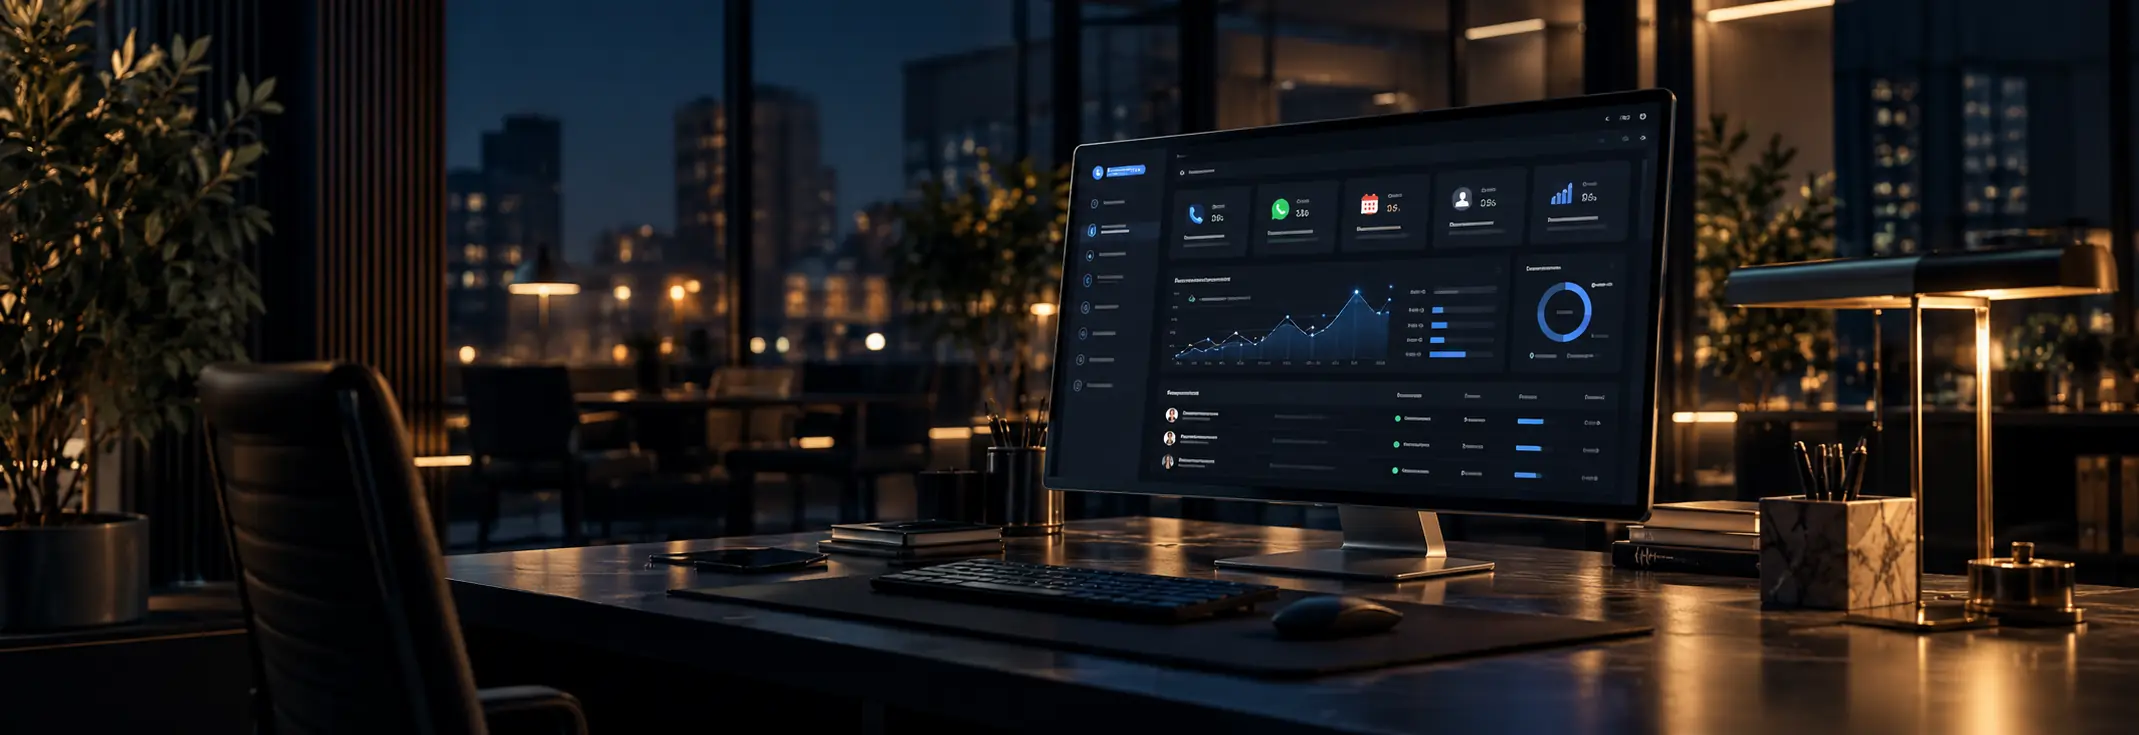
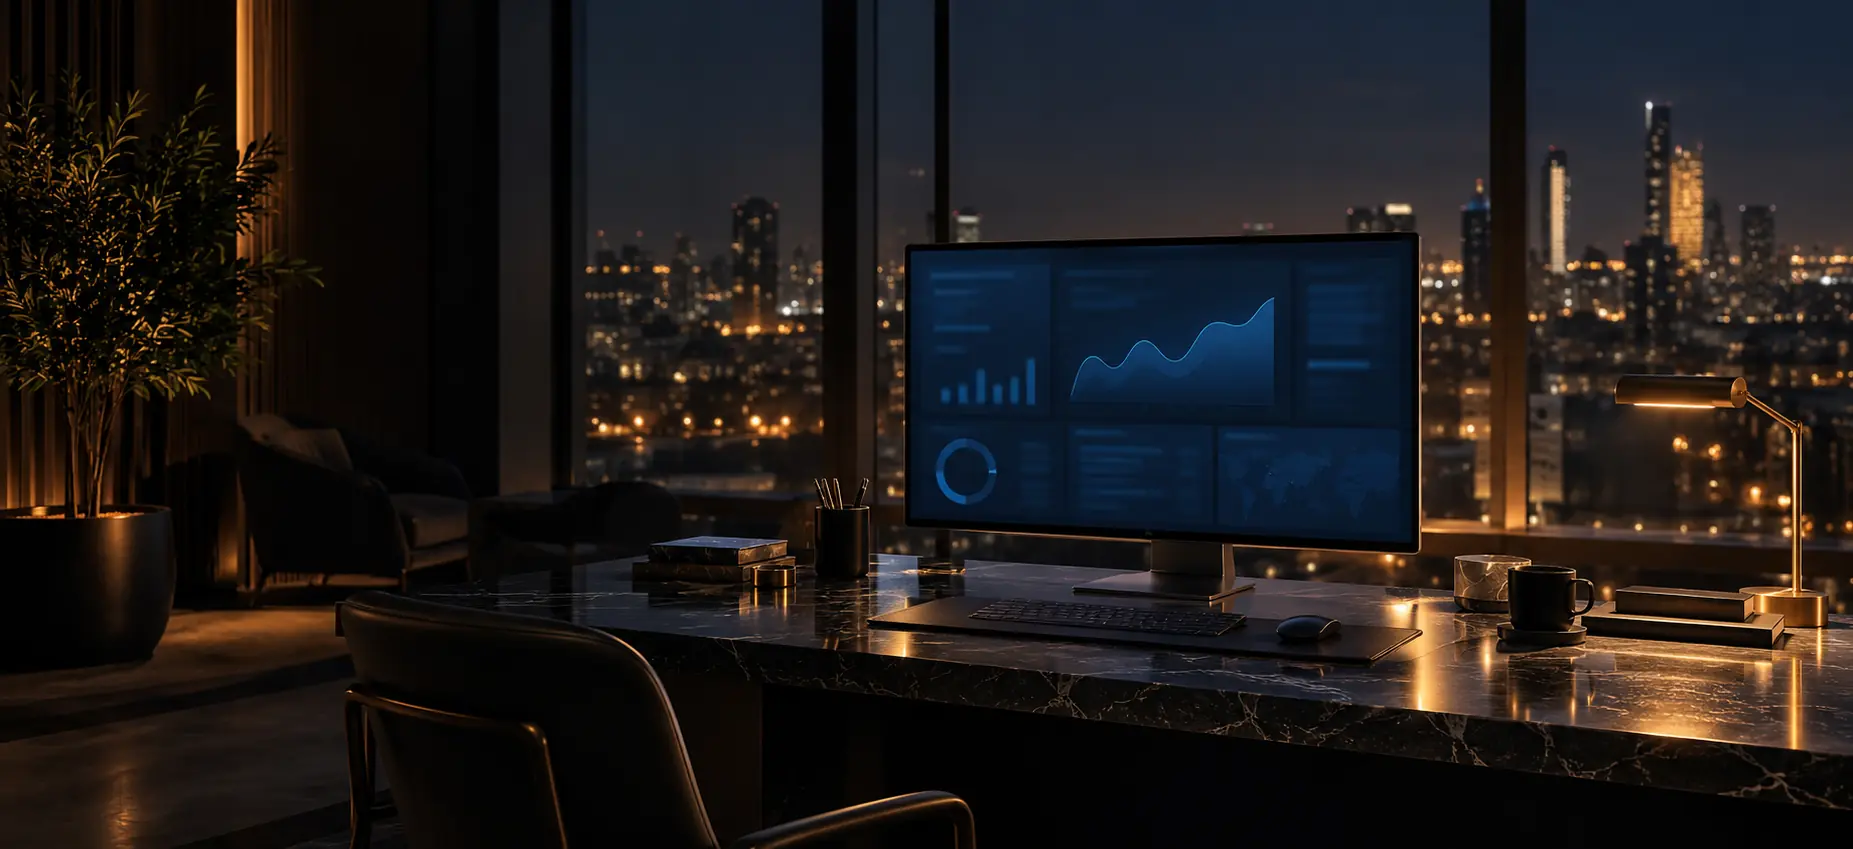
piezas: foto nueva 2,18:1 en inmobiliarias (seccion mas alta, como coaching) y la misma seccion en concesionarios con foto mas clara

diff --git a/src/concesionarios/index.html b/src/concesionarios/index.html
@@ -1214,6 +1214,105 @@
     })();
   </script>
 
+  <!-- =================== 06B - PIEZAS (2026-10-07) ===================
+       Anais: "en concesionarios no hay esa seccion, pon el mismo copy que
+       inmobiliarias". Es el mismo bloque (prefijo pzs-): texto a la
+       izquierda, boton blanco e iconos, y las seis piezas alrededor del
+       ordenador de la foto (assets/conce-piezas.webp, 1852x849), mas clara
+       que la de inmobiliarias a peticion suya porque la pagina es muy
+       oscura. Monitor en unidades de 2000: x 952-1522, y 232-588. -->
+    <style>
+      section#piezas.pzs { padding: 0 !important; background: #050A12; color: #fff; }
+      .pzs-esc { position: relative; container-type: inline-size; aspect-ratio: 1852 / 849; background: url(/assets/conce-piezas.webp) center / 100% 100% no-repeat; }
+      .pzs-in { --u: calc(100cqw / 2000); position: absolute; inset: 0; }
+      .pzs-velo { position: absolute; inset: 0; background: linear-gradient(90deg, rgba(3,8,16,.86) 0%, rgba(3,8,16,.66) 22%, rgba(3,8,16,.18) 31%, rgba(3,8,16,0) 40%); }
+      .pzs-txt { position: absolute; left: calc(110 * var(--u)); top: 0; bottom: 0; width: calc(470 * var(--u)); display: flex; flex-direction: column; justify-content: center; }
+      .pzs-txt .c-kick { margin-bottom: calc(14 * var(--u)); }
+      .pzs-txt h2 { font-size: calc(58 * var(--u)); line-height: 1.04; letter-spacing: -.035em; font-weight: 800; color: #fff; }
+      .pzs-txt .lede { margin-top: calc(18 * var(--u)); font-size: calc(19 * var(--u)); line-height: 1.5; color: rgba(255,255,255,.78); }
+      .pzs-btn { align-self: flex-start; display: inline-flex; align-items: center; gap: 12px; margin-top: calc(26 * var(--u)); height: calc(58 * var(--u)); padding: 0 calc(30 * var(--u)); border: 0; border-radius: 999px; background: #fff; color: #0B1220; font: inherit; font-size: calc(18 * var(--u)); font-weight: 600; cursor: pointer; transition: background .2s; }
+      .pzs-btn:hover { background: #EEF1F5; }
+      .pzs-btn svg { width: calc(16 * var(--u)); height: calc(16 * var(--u)); }
+      .pzs-apps { display: flex; gap: calc(10 * var(--u)); margin-top: calc(24 * var(--u)); }
+      .pzs-apps i { width: calc(52 * var(--u)); height: calc(52 * var(--u)); border-radius: calc(13 * var(--u)); background: rgba(18,22,30,.88); border: 1px solid rgba(255,255,255,.12); display: flex; align-items: center; justify-content: center; }
+      .pzs-apps svg { width: calc(27 * var(--u)); height: calc(27 * var(--u)); }
+      .pzs-nota { margin-top: calc(12 * var(--u)); font-size: calc(15 * var(--u)); color: rgba(255,255,255,.72); }
+      .pzs-fl { position: absolute; inset: 0; width: 100%; height: 100%; }
+      .pzs-fl path { stroke-dasharray: 60; stroke-dashoffset: 60; }
+      .anim-on .visto .pzs-fl path { animation: pzs-cable 1.2s ease 1.6s forwards, pzs-brillo 2.6s ease-in-out 2.8s infinite; }
+      @keyframes pzs-cable { to { stroke-dashoffset: 0; } }
+      @keyframes pzs-brillo { 0%, 100% { opacity: .55; } 50% { opacity: 1; } }
+      .pzs-c { position: absolute; display: grid; grid-template-columns: auto 1fr; gap: calc(14 * var(--u)); align-items: center; padding: calc(16 * var(--u)); background: rgba(8,14,26,.86); border: 1px solid rgba(70,140,255,.5); border-radius: calc(16 * var(--u)); box-shadow: 0 0 calc(24 * var(--u)) rgba(30,110,255,.18); backdrop-filter: blur(8px); -webkit-backdrop-filter: blur(8px); }
+      .pzs-c i { width: calc(46 * var(--u)); height: calc(46 * var(--u)); border-radius: calc(12 * var(--u)); background: #1167FF; color: #fff; display: flex; align-items: center; justify-content: center; }
+      .pzs-c i.wa { background: #25D366; }
+      .pzs-c i.cl { background: linear-gradient(180deg, #2BA6FF, #1167FF); }
+      .pzs-c i svg { width: calc(26 * var(--u)); height: calc(26 * var(--u)); }
+      .pzs-c b { display: block; font-size: calc(21 * var(--u)); font-weight: 700; line-height: 1.2; letter-spacing: -.01em; color: #fff; }
+      .pzs-c span { display: block; margin-top: calc(4 * var(--u)); font-size: calc(16.5 * var(--u)); line-height: 1.35; color: #C9D2DE; }
+      /* Monitor en la foto (unidades de 2000 de ancho): x 952-1522, y 232-588. */
+      .pzs-c.c1, .pzs-c.c2, .pzs-c.c3 { left: calc(590 * var(--u)); width: calc(330 * var(--u)); }
+      .pzs-c.c4, .pzs-c.c5, .pzs-c.c6 { left: calc(1565 * var(--u)); width: calc(380 * var(--u)); }
+      .pzs-c.c1, .pzs-c.c4 { top: calc(215 * var(--u)); }
+      .pzs-c.c2, .pzs-c.c5 { top: calc(385 * var(--u)); }
+      .pzs-c.c3, .pzs-c.c6 { top: calc(555 * var(--u)); }
+      @media (max-width: 1180px) {
+        .pzs-esc { aspect-ratio: auto; background-size: cover; background-position: 62% center; padding: 56px 22px; }
+        .pzs-in { position: static; --u: 1px; }
+        .pzs-velo { background: rgba(3,8,16,.72); }
+        .pzs-txt { position: relative; left: auto; width: auto; max-width: 560px; }
+        .pzs-txt h2 { font-size: clamp(1.6rem, 6vw, 2.4rem); }
+        .pzs-txt .lede { font-size: .95rem; }
+        .pzs-btn { height: 50px; font-size: 15.5px; padding: 0 24px; }
+        .pzs-apps i { width: 44px; height: 44px; } .pzs-apps svg { width: 23px; height: 23px; }
+        .pzs-nota { font-size: 13.5px; }
+        .pzs-fl { display: none; }
+        .pzs-cs { position: relative; display: grid; grid-template-columns: 1fr 1fr; gap: 10px; margin-top: 28px; }
+        .pzs-c { position: relative; left: auto !important; top: auto !important; width: auto !important; grid-template-columns: 1fr; gap: 8px; padding: 12px; border-radius: 12px; }
+        .pzs-c i { width: 34px; height: 34px; border-radius: 9px; } .pzs-c i svg { width: 19px; height: 19px; }
+        .pzs-c b { font-size: 14px; } .pzs-c span { font-size: 12.5px; }
+      }
+      @media (prefers-reduced-motion: reduce) { .pzs-fl path { stroke-dashoffset: 0; } .anim-on .visto .pzs-fl path { animation: none; } }
+    </style>
+    <section class="pzs" id="piezas">
+      <div class="pzs-esc">
+        <div class="pzs-velo" aria-hidden="true"></div>
+        <div class="pzs-in" data-vi>
+          <svg class="pzs-fl" viewBox="0 0 2000 917" preserveAspectRatio="none" fill="none" aria-hidden="true">
+            <g stroke="#3D9BFF" stroke-width="2.4" stroke-linecap="round" style="filter: drop-shadow(0 0 4px rgba(61,155,255,.9))">
+              <path vector-effect="non-scaling-stroke" d="M920 270C938 270 938 295 955 295"/>
+              <path vector-effect="non-scaling-stroke" d="M920 440H955"/>
+              <path vector-effect="non-scaling-stroke" d="M920 610C938 610 938 575 955 575"/>
+              <path vector-effect="non-scaling-stroke" d="M1565 270C1545 270 1545 295 1521 295"/>
+              <path vector-effect="non-scaling-stroke" d="M1565 440H1521"/>
+              <path vector-effect="non-scaling-stroke" d="M1565 610C1545 610 1545 575 1521 575"/>
+            </g>
+          </svg>
+          <div class="pzs-txt">
+            <p class="c-kick">El sistema</p>
+            <h2>Piezas, no un <br>paquete cerrado.</h2>
+            <p class="lede">Nos adaptamos a las herramientas que ya utilizas. Y si hace falta una pieza que no existe en tu software, la construimos.</p>
+            <button class="pzs-btn" type="button" data-cal><svg viewBox="0 0 24 24" fill="currentColor" aria-hidden="true"><path d="M8 5.5l11 6.5-11 6.5z"/></svg>Ver c&oacute;mo se integra</button>
+            <div class="pzs-apps" aria-label="Algunas herramientas con las que se integra">
+              <i title="WhatsApp"><svg viewBox="0 0 24 24" fill="none" stroke="#25D366" stroke-width="2.2" stroke-linecap="round"><path d="M20 11.5a7.5 7.5 0 01-10.9 6.7L4 19.5l1.4-4.8A7.5 7.5 0 1120 11.5z"/></svg></i>
+              <i title="Instagram"><svg viewBox="0 0 24 24" fill="none" stroke="url(#pzig2)" stroke-width="2.2"><defs><linearGradient id="pzig2" x1="0" y1="1" x2="1" y2="0"><stop offset="0" stop-color="#F9A03C"/><stop offset=".5" stop-color="#E1306C"/><stop offset="1" stop-color="#8134AF"/></linearGradient></defs><rect x="3.5" y="3.5" width="17" height="17" rx="5"/><circle cx="12" cy="12" r="4"/><circle cx="17" cy="7" r="1.2" fill="#E1306C" stroke="none"/></svg></i>
+              <i title="Gmail"><svg viewBox="0 0 24 24" fill="none" stroke-width="2.4" stroke-linejoin="round"><path d="M3.5 18V7l8.5 6.5L20.5 7v11" stroke="#EA4335"/><path d="M3.5 18h3V10M20.5 18h-3V10" stroke="#4285F4"/></svg></i>
+              <i title="Google Calendar"><svg viewBox="0 0 24 24"><rect x="3.5" y="3.5" width="17" height="17" rx="2.5" fill="#fff"/><path d="M3.5 7.5h17" stroke="#4285F4" stroke-width="3"/><text x="12" y="17.6" text-anchor="middle" font-size="8.5" font-weight="700" fill="#1A73E8" font-family="Arial,sans-serif">31</text></svg></i>
+              <i title="HubSpot"><svg viewBox="0 0 24 24" fill="none" stroke="#FB5328" stroke-width="2.1" stroke-linecap="round"><path d="M15 6.5v4.2M15 13.3v4.2"/><circle cx="15" cy="12" r="3.6"/><circle cx="15" cy="5" r="1.6"/><circle cx="15" cy="19" r="1.6"/><path d="M11.4 12H7"/><circle cx="6" cy="12" r="1.6"/></svg></i>
+            </div>
+            <p class="pzs-nota">Se integra con tus herramientas actuales.</p>
+          </div>
+          <div class="pzs-cs">
+          <div class="pzs-c c1 vi" style="--d:.4s"><i><svg viewBox="0 0 24 24" fill="currentColor"><path d="M7.4 3.2c.5-.2 1.1 0 1.4.5l1.4 2.4c.3.5.2 1.1-.2 1.5l-1 .9c-.2.2-.3.5-.1.8.9 1.7 2.3 3.1 4 4 .3.2.6.1.8-.1l.9-1c.4-.4 1-.5 1.5-.2l2.4 1.4c.5.3.7.9.5 1.4l-.6 1.6c-.3.8-1.1 1.3-2 1.2C9.9 18.9 5.1 14.1 4.4 7.6c-.1-.9.4-1.7 1.2-2z"/></svg></i><div><b>Llamadas</b><span>Un agente de voz atiende al instante.</span></div></div>
+          <div class="pzs-c c2 vi" style="--d:.8s"><i class="wa"><svg viewBox="0 0 24 24" fill="none" stroke="currentColor" stroke-width="2" stroke-linecap="round"><path d="M20 11.5a7.5 7.5 0 01-10.9 6.7L4 19.5l1.4-4.8A7.5 7.5 0 1120 11.5z"/></svg></i><div><b>WhatsApp</b><span>Sigue la conversaci&oacute;n y env&iacute;a la ficha del coche.</span></div></div>
+          <div class="pzs-c c3 vi" style="--d:1.2s"><i><svg viewBox="0 0 24 24" fill="none" stroke="currentColor" stroke-width="1.9" stroke-linecap="round"><rect x="3.5" y="5" width="17" height="15" rx="2.5"/><path d="M3.5 9.5h17M8 3v4M16 3v4"/></svg></i><div><b>Agenda</b><span>Pruebas, tasaciones y citas de taller.</span></div></div>
+          <div class="pzs-c c4 vi" style="--d:.6s"><i class="cl"><svg viewBox="0 0 24 24" fill="none" stroke="currentColor" stroke-width="1.9" stroke-linejoin="round"><path d="M12 3.5l8.5 4.5-8.5 4.5L3.5 8z"/><path d="M3.5 12l8.5 4.5 8.5-4.5M3.5 16l8.5 4.5 8.5-4.5"/></svg></i><div><b>CRM &middot; tu software</b><span>Contacto y cita, registrados solos.</span></div></div>
+          <div class="pzs-c c5 vi" style="--d:1.0s"><i><svg viewBox="0 0 24 24" fill="currentColor"><path d="M6 10a6 6 0 1112 0c0 4 1.6 5.6 1.6 5.6H4.4S6 14 6 10z"/><path d="M10 18.5a2.2 2.2 0 004 0"/></svg></i><div><b>Seguimiento</b><span>Recordatorios de cita y de revisi&oacute;n.</span></div></div>
+          <div class="pzs-c c6 vi" style="--d:1.4s"><i><svg viewBox="0 0 24 24" fill="currentColor"><circle cx="9" cy="8" r="3.4"/><path d="M2.5 19.5c0-3.6 2.9-6 6.5-6s6.5 2.4 6.5 6z"/><circle cx="17" cy="9" r="2.6"/><path d="M16.5 13.6c3 .2 5 2.3 5 5.9h-4.4c0-2.3-.2-4.4-.6-5.9z"/></svg></i><div><b>Tu equipo</b><span>Ventas y taller reciben el aviso con todo.</span></div></div>
+          </div>
+        </div>
+      </div>
+    </section>
+
   <!-- =================== 07 - LO QUE HACE Y LO QUE NO =================== -->
   <section class="sec s07 clara" id="alcance">
       <div class="foto"></div>

diff --git a/src/inmobiliarias/index.html b/src/inmobiliarias/index.html
@@ -1677,19 +1677,19 @@
          Rehecha como la de coaching v3 (.x3): texto a la izquierda con boton
          blanco y los iconos de herramientas, y las seis piezas en tarjetas
          alrededor del ordenador. Aqui el ordenador es de la foto
-         (assets/inmo-piezas.webp, 2139x735, pasada por Anais), asi que la
+         (assets/inmo-piezas.webp, 1853x849 = 2,18:1, pasada por Anais; la primera era 2,9:1 y a 1440 la seccion se quedaba en 441 px contra los 588 de coaching), asi que la
          escena va con la proporcion de la foto y las tarjetas se colocan en
          unidades de esa foto (--u = 1/2000 del ancho). Titular y entradilla
          son los aprobados; las seis piezas son las de la lista anterior.
          El panel de la pantalla viene pintado y no se lee: no son cifras. -->
     <style>
       section#sistema.pzs { padding: 0 !important; background: #050A12; color: #fff; }
-      .pzs-esc { position: relative; container-type: inline-size; aspect-ratio: 2139 / 735; background: url(/assets/inmo-piezas.webp) center / 100% 100% no-repeat; }
+      .pzs-esc { position: relative; container-type: inline-size; aspect-ratio: 1853 / 849; background: url(/assets/inmo-piezas.webp?v=2) center / 100% 100% no-repeat; }
       .pzs-in { --u: calc(100cqw / 2000); position: absolute; inset: 0; }
       .pzs-velo { position: absolute; inset: 0; background: linear-gradient(90deg, rgba(3,8,16,.92) 0%, rgba(3,8,16,.78) 22%, rgba(3,8,16,.25) 31%, rgba(3,8,16,0) 40%); }
       .pzs-txt { position: absolute; left: calc(110 * var(--u)); top: 0; bottom: 0; width: calc(470 * var(--u)); display: flex; flex-direction: column; justify-content: center; }
       .pzs-txt .kick { margin-bottom: calc(14 * var(--u)); color: var(--azul-claro); }
-      .pzs-txt h2 { font-size: calc(54 * var(--u)); line-height: 1.04; letter-spacing: -.035em; font-weight: 800; color: #fff; }
+      .pzs-txt h2 { font-size: calc(58 * var(--u)); line-height: 1.04; letter-spacing: -.035em; font-weight: 800; color: #fff; }
       .pzs-txt .lede { margin-top: calc(18 * var(--u)); font-size: calc(19 * var(--u)); line-height: 1.5; color: rgba(255,255,255,.78); }
       .pzs-btn { align-self: flex-start; display: inline-flex; align-items: center; gap: 12px; margin-top: calc(26 * var(--u)); height: calc(58 * var(--u)); padding: 0 calc(30 * var(--u)); border: 0; border-radius: 999px; background: #fff; color: #0B1220; font: inherit; font-size: calc(18 * var(--u)); font-weight: 600; cursor: pointer; transition: background .2s; }
       .pzs-btn:hover { background: #EEF1F5; }
@@ -1699,7 +1699,7 @@
       .pzs-apps svg { width: calc(27 * var(--u)); height: calc(27 * var(--u)); }
       .pzs-nota { margin-top: calc(12 * var(--u)); font-size: calc(15 * var(--u)); color: rgba(255,255,255,.72); }
       .pzs-fl { position: absolute; inset: 0; width: 100%; height: 100%; }
-      .pzs-fl path { stroke-dasharray: 90; stroke-dashoffset: 90; }
+      .pzs-fl path { stroke-dasharray: 60; stroke-dashoffset: 60; }
       .anim-on .visto .pzs-fl path { animation: pzs-cable 1.2s ease 1.6s forwards, pzs-brillo 2.6s ease-in-out 2.8s infinite; }
       @keyframes pzs-cable { to { stroke-dashoffset: 0; } }
       @keyframes pzs-brillo { 0%, 100% { opacity: .55; } 50% { opacity: 1; } }
@@ -1710,11 +1710,12 @@
       .pzs-c i svg { width: calc(26 * var(--u)); height: calc(26 * var(--u)); }
       .pzs-c b { display: block; font-size: calc(21 * var(--u)); font-weight: 700; line-height: 1.2; letter-spacing: -.01em; color: #fff; }
       .pzs-c span { display: block; margin-top: calc(4 * var(--u)); font-size: calc(16.5 * var(--u)); line-height: 1.35; color: #C9D2DE; }
-      .pzs-c.c1, .pzs-c.c2, .pzs-c.c3 { left: calc(590 * var(--u)); width: calc(330 * var(--u)); }
-      .pzs-c.c4, .pzs-c.c5, .pzs-c.c6 { left: calc(1620 * var(--u)); width: calc(350 * var(--u)); }
-      .pzs-c.c1, .pzs-c.c4 { top: calc(120 * var(--u)); }
-      .pzs-c.c2, .pzs-c.c5 { top: calc(285 * var(--u)); }
-      .pzs-c.c3, .pzs-c.c6 { top: calc(450 * var(--u)); }
+      /* Monitor en la foto (unidades de 2000 de ancho): x 977-1533, y 250-596. */
+      .pzs-c.c1, .pzs-c.c2, .pzs-c.c3 { left: calc(610 * var(--u)); width: calc(330 * var(--u)); }
+      .pzs-c.c4, .pzs-c.c5, .pzs-c.c6 { left: calc(1575 * var(--u)); width: calc(370 * var(--u)); }
+      .pzs-c.c1, .pzs-c.c4 { top: calc(215 * var(--u)); }
+      .pzs-c.c2, .pzs-c.c5 { top: calc(385 * var(--u)); }
+      .pzs-c.c3, .pzs-c.c6 { top: calc(555 * var(--u)); }
       @media (max-width: 1180px) {
         .pzs-esc { aspect-ratio: auto; background-size: cover; background-position: 62% center; padding: 56px 22px; }
         .pzs-in { position: static; --u: 1px; }
@@ -1737,14 +1738,14 @@
       <div class="pzs-esc">
         <div class="pzs-velo" aria-hidden="true"></div>
         <div class="pzs-in" data-vi>
-          <svg class="pzs-fl" viewBox="0 0 2000 687" preserveAspectRatio="none" fill="none" aria-hidden="true">
-            <g stroke="#3D9BFF" stroke-width="2.4" stroke-linecap="round" vector-effect="non-scaling-stroke" style="filter: drop-shadow(0 0 4px rgba(61,155,255,.9))">
-              <path vector-effect="non-scaling-stroke" d="M920 172C960 172 960 190 1000 190"/>
-              <path vector-effect="non-scaling-stroke" d="M920 337H998"/>
-              <path vector-effect="non-scaling-stroke" d="M920 502C960 502 960 470 1000 470"/>
-              <path vector-effect="non-scaling-stroke" d="M1620 172C1590 172 1590 150 1555 150"/>
-              <path vector-effect="non-scaling-stroke" d="M1620 337H1560"/>
-              <path vector-effect="non-scaling-stroke" d="M1620 502C1590 502 1590 470 1555 470"/>
+          <svg class="pzs-fl" viewBox="0 0 2000 917" preserveAspectRatio="none" fill="none" aria-hidden="true">
+            <g stroke="#3D9BFF" stroke-width="2.4" stroke-linecap="round" style="filter: drop-shadow(0 0 4px rgba(61,155,255,.9))">
+              <path vector-effect="non-scaling-stroke" d="M940 270C960 270 960 300 980 300"/>
+              <path vector-effect="non-scaling-stroke" d="M940 440H980"/>
+              <path vector-effect="non-scaling-stroke" d="M940 610C960 610 960 580 980 580"/>
+              <path vector-effect="non-scaling-stroke" d="M1575 270C1555 270 1555 300 1532 300"/>
+              <path vector-effect="non-scaling-stroke" d="M1575 440H1532"/>
+              <path vector-effect="non-scaling-stroke" d="M1575 610C1555 610 1555 580 1532 580"/>
             </g>
           </svg>
           <div class="pzs-txt">
